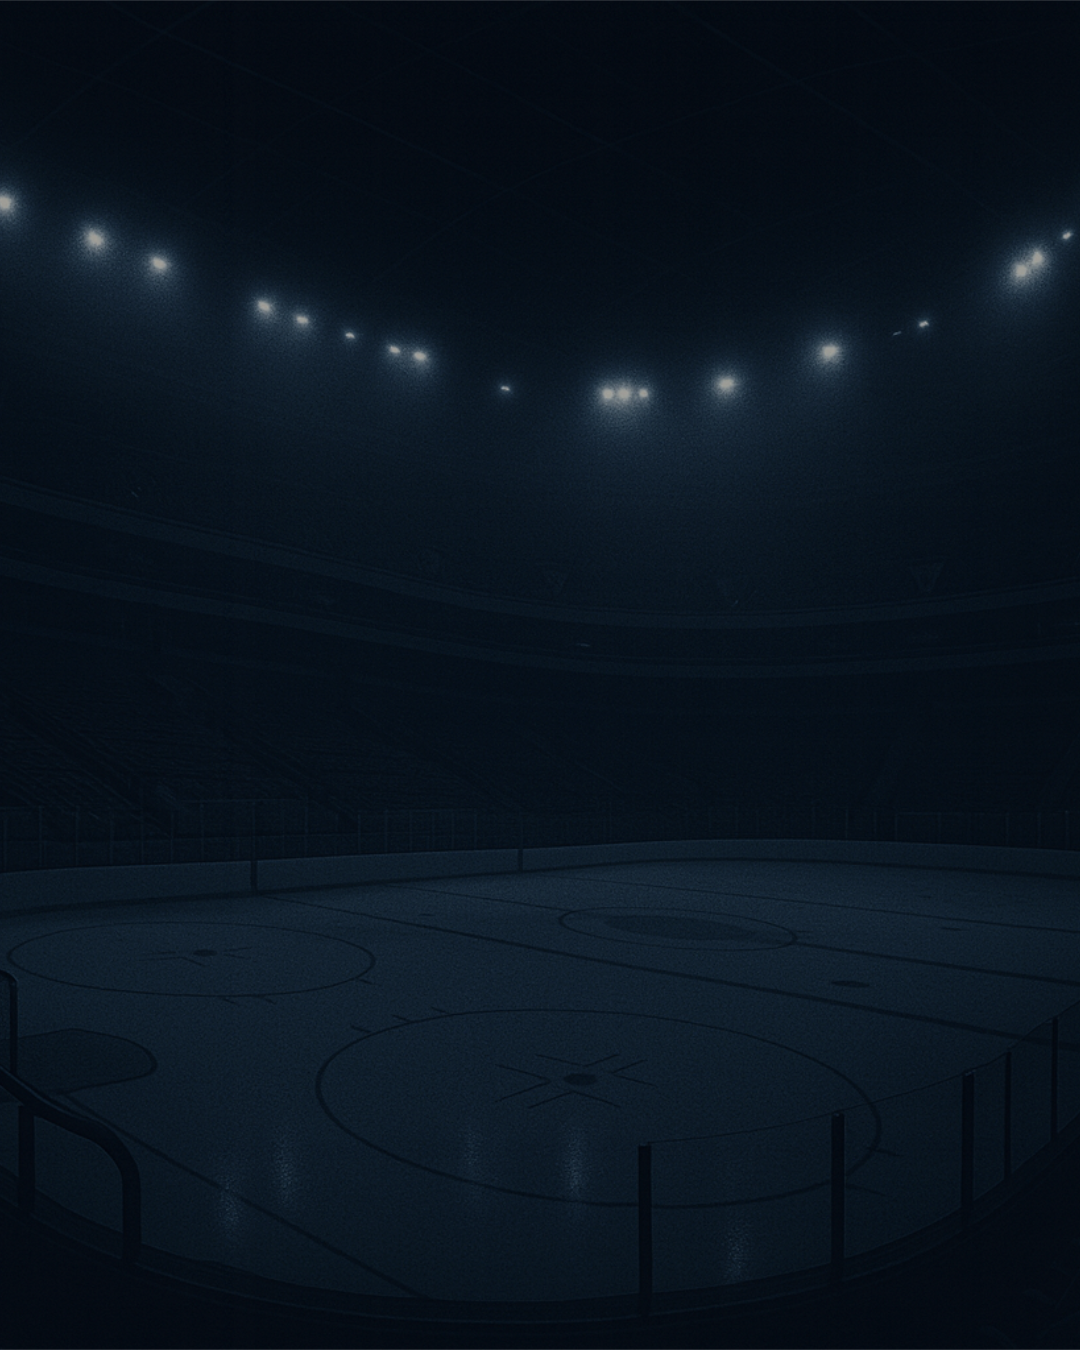
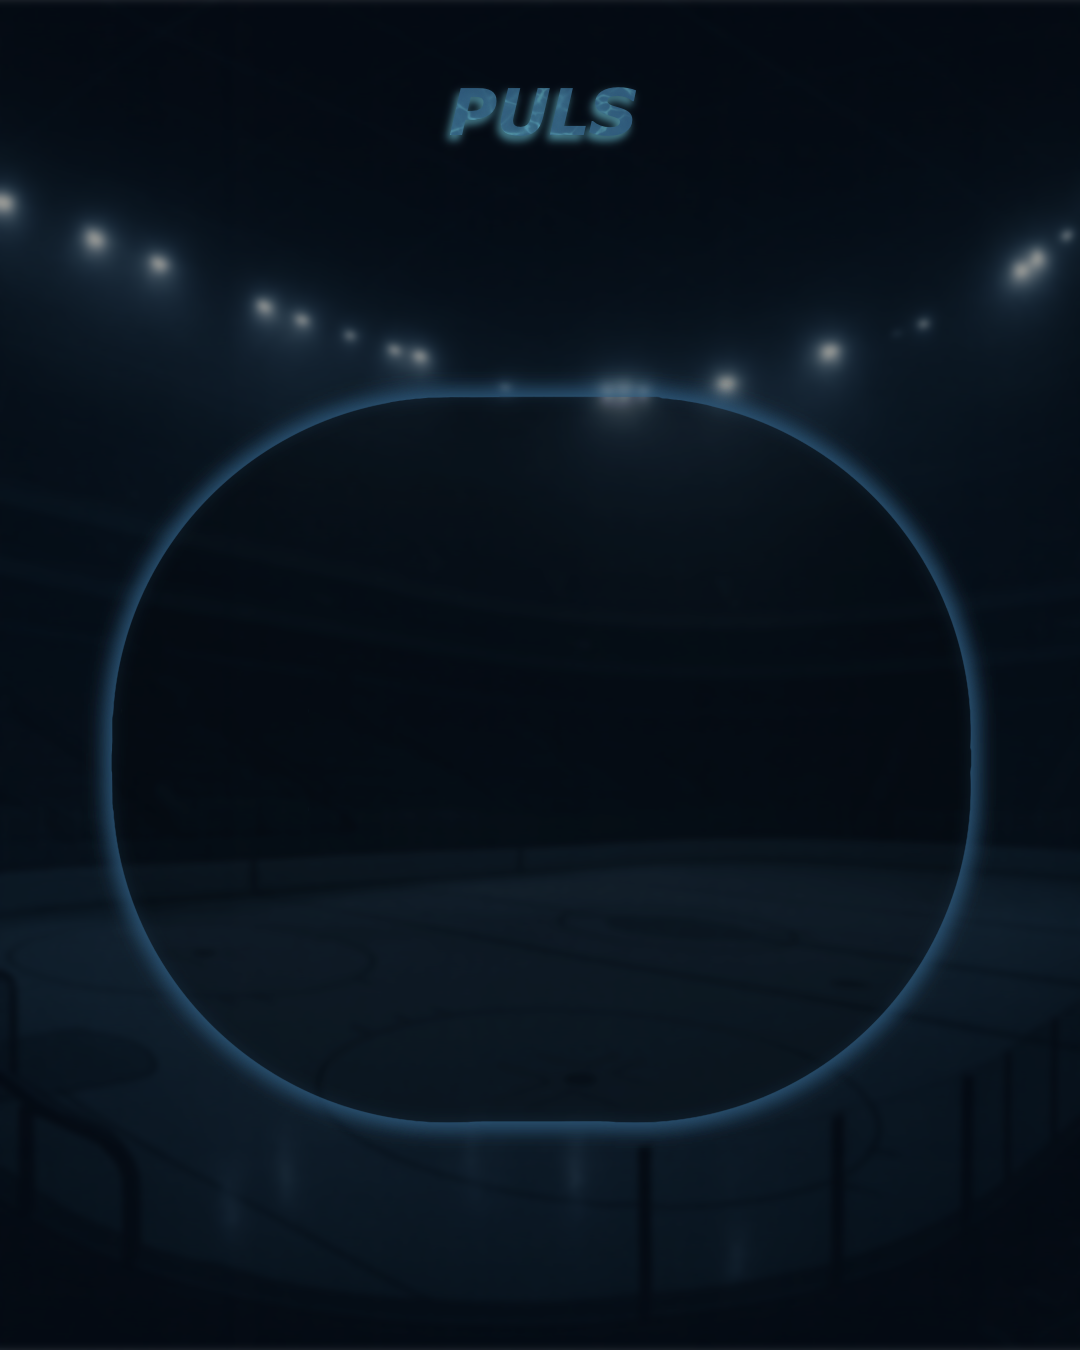
Layout und design Renderer ready

diff --git a/tools/puls_renderer/renderer.py b/tools/puls_renderer/renderer.py
@@ -130,6 +130,28 @@ def _split_first_last(full: str) -> tuple[str, str]:
         return parts[0], ""
     return " ".join(parts[:-1]), parts[-1]
 
+def _draw_watermark(
+    img: Image.Image,
+    draw: ImageDraw.ImageDraw,
+    text: str,
+    font: ImageFont.FreeTypeFont,
+    margin: int = 24,
+    opacity: int = 110,
+):
+    w, h = img.size
+    tw = draw.textlength(text, font=font)
+    th = font.size
+
+    x = w - tw - margin
+    y = h - th - margin
+
+    draw.text(
+        (x, y),
+        text,
+        font=font,
+        fill=(255, 255, 255, opacity),
+    )
+
 def _draw_name_bg(draw, x, y, w, h):
     draw.rounded_rectangle(
         (x-10, y-4, x+w+10, y+h+4),
@@ -573,6 +595,16 @@ def render_matchday_overview(
         anchor="mm",
     )
 
+    wm_font = ImageFont.truetype(str(fonts_dir / "Inter-Medium.ttf"), size=20)
+    _draw_watermark(
+        img,
+        draw,
+        text="powered by HIGHspeeΔ PUX! Engine",
+        font=wm_font,
+        margin=22,
+        opacity=90,
+    )
+
 
 
     # Matches
@@ -666,6 +698,7 @@ def render_matchday_overview(
 
     for i, m in enumerate(sued):
         draw_match_row(layout.y_sued[i], m["home"], m["away"])
+
 
     out_path.parent.mkdir(parents=True, exist_ok=True)
     img.save(out_path)
@@ -1062,6 +1095,16 @@ def render_starting6_from_files(
         font=font_obj,
         fill=layout.color_text,
         max_width=700,
+    )
+    wm_font = ImageFont.truetype(str(paths.fonts_dir / "Inter-Medium.ttf"), size=20)
+
+    _draw_watermark(
+        img,
+        draw,
+        text="powered by HIGHspeeΔ PUX! Engine",
+        font=wm_font,
+        margin=22,
+        opacity=90,
     )
 
     img.save(out_path)
